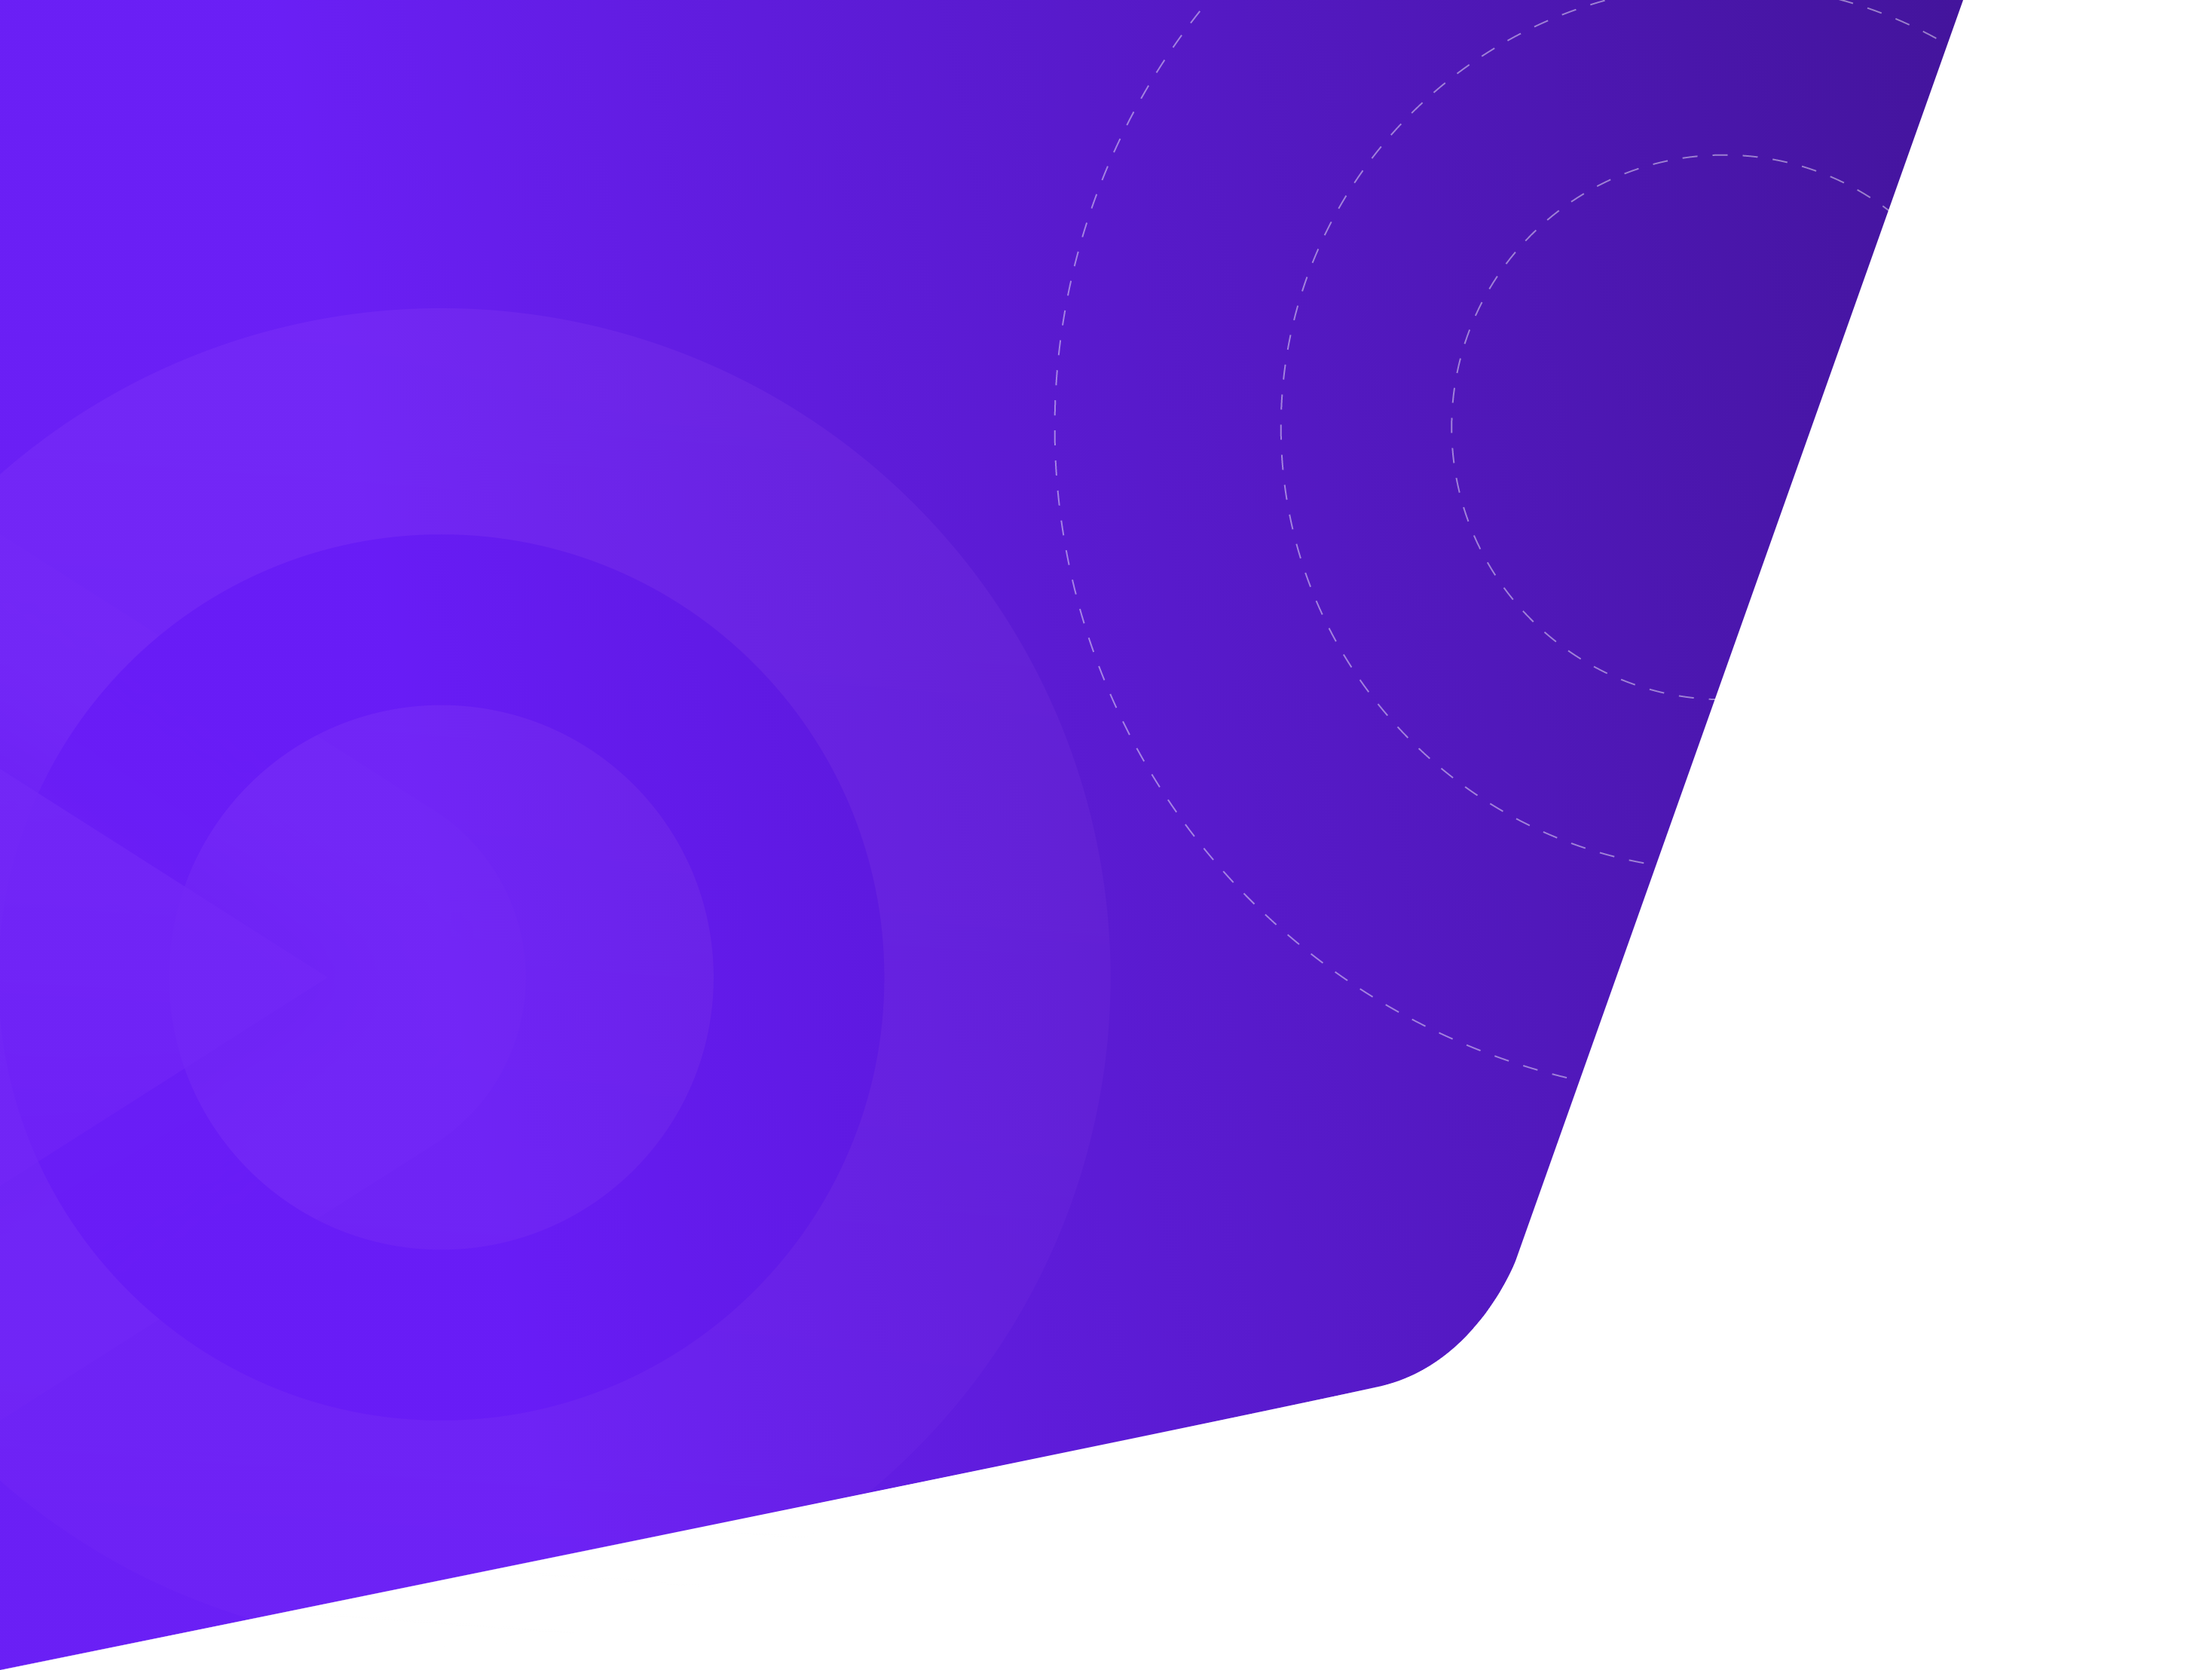
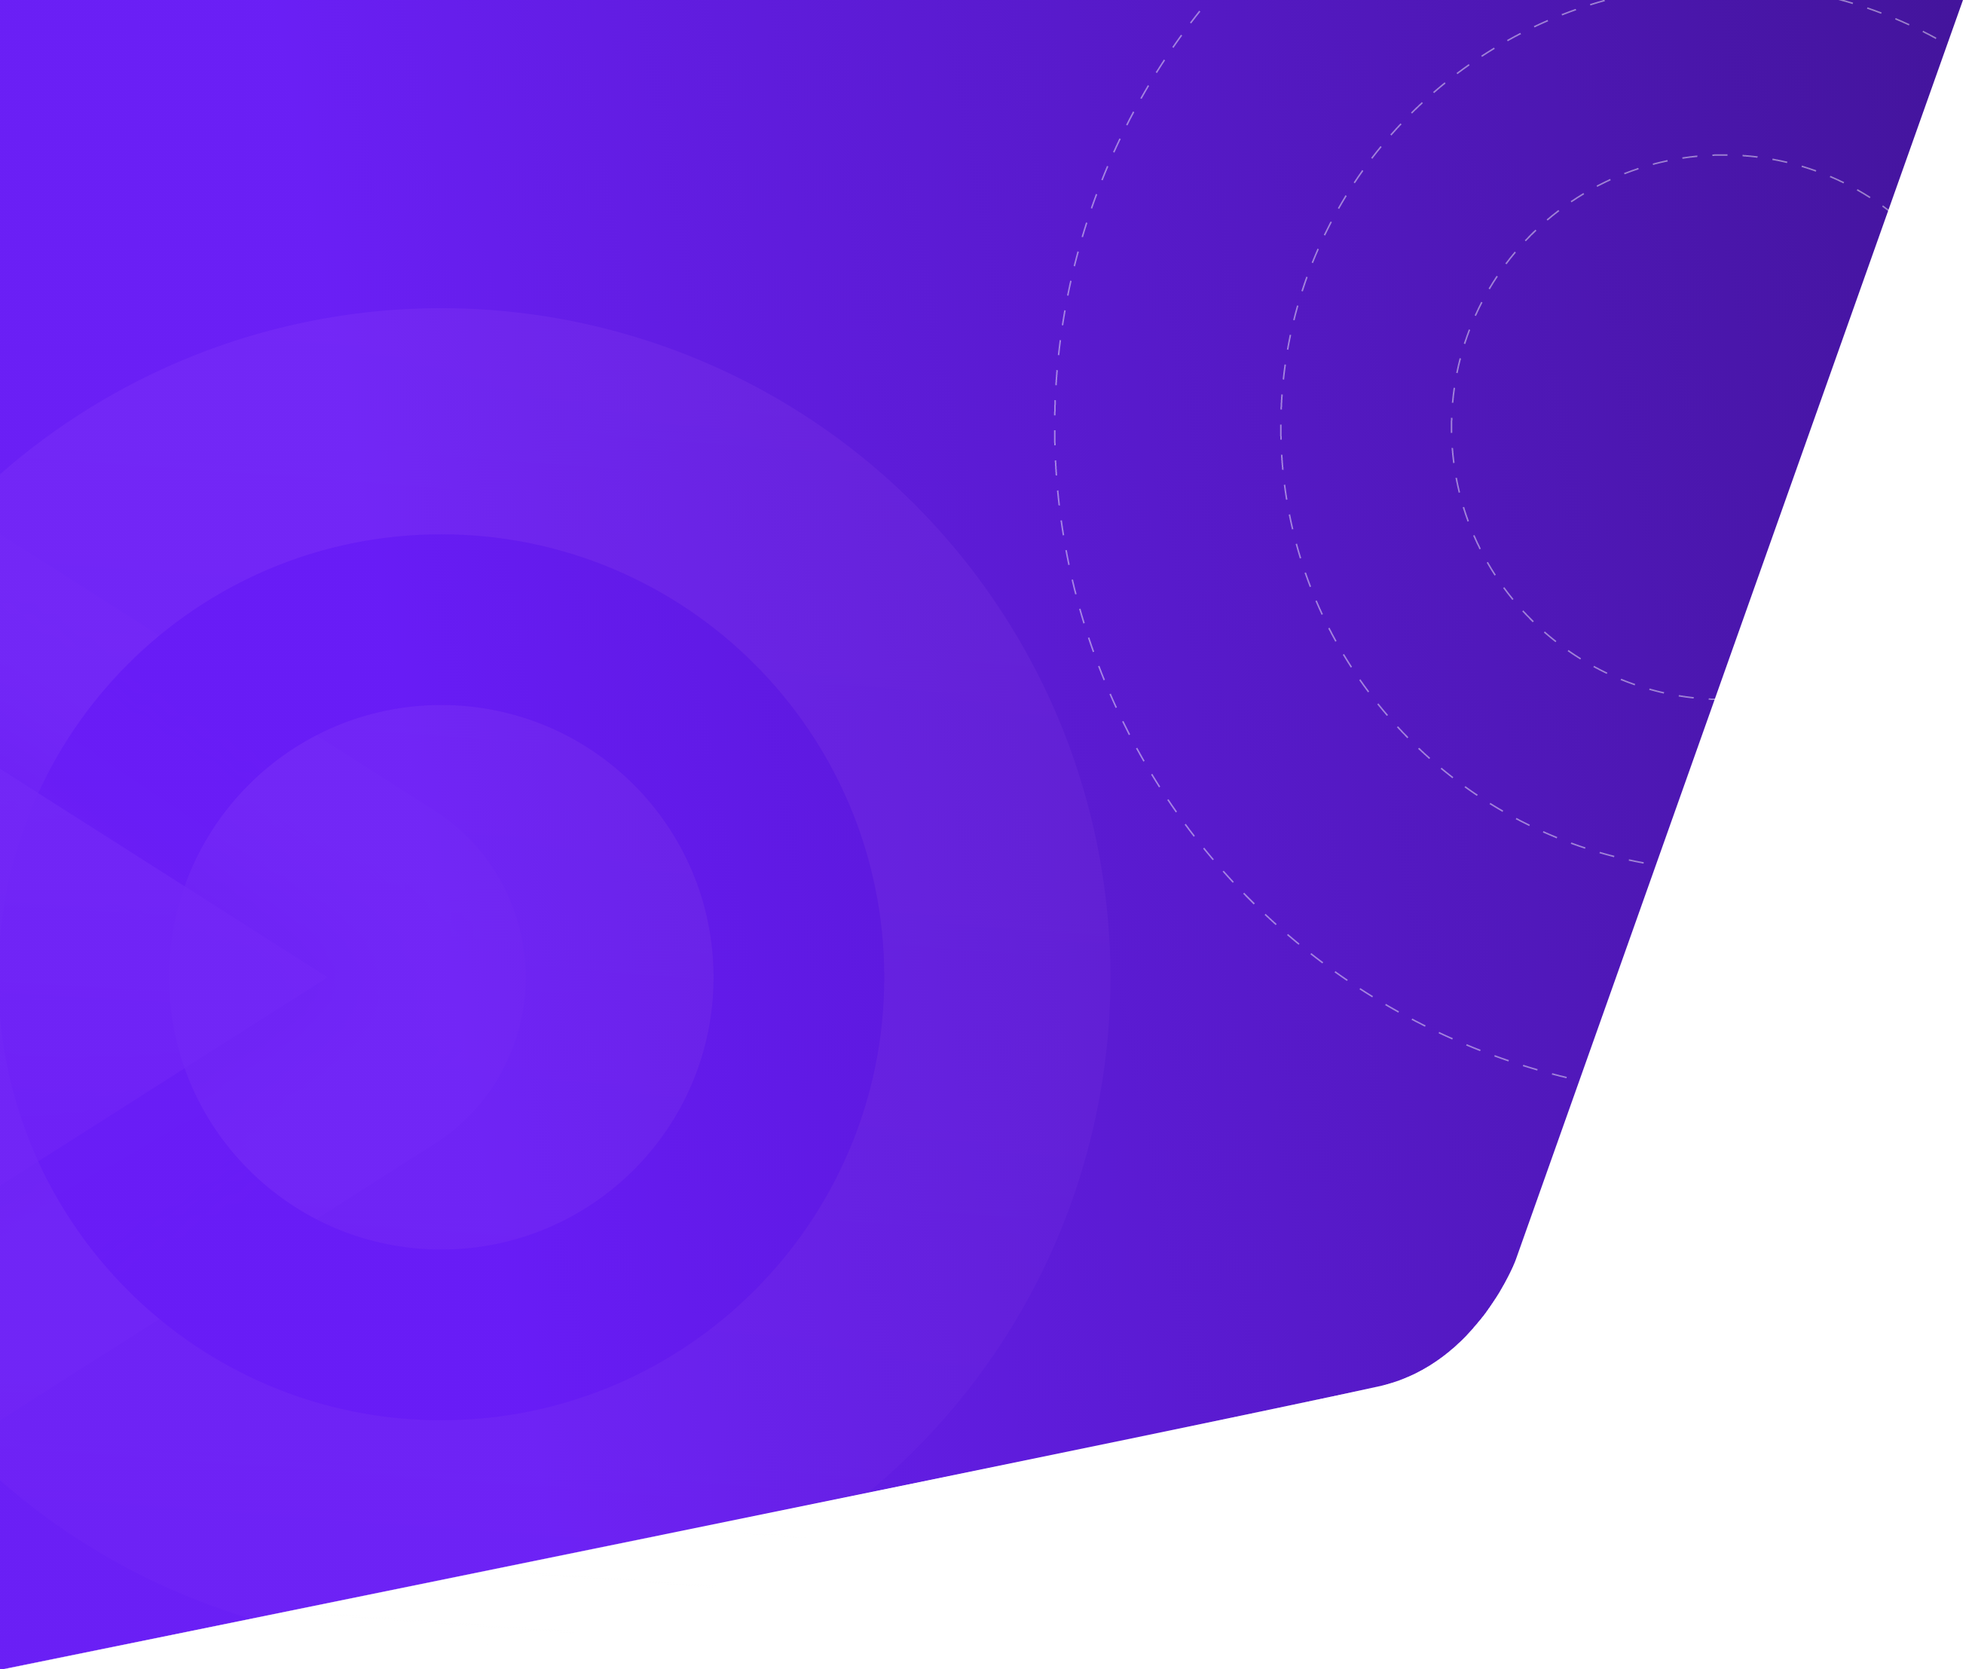
style(landing): :lipstick: change image hero

diff --git a/features/landing/Hero/Hero.tsx b/features/landing/Hero/Hero.tsx
@@ -9,7 +9,7 @@ import {
   MenuContainer,
 } from "./Hero.styles";
 
-import heroBg from '../../../assets/img/hero_bg2x.png';
+import heroBg from '../../../assets/img/hero.png';
 import heroContent from '../../../assets/img/hero-content2x.png';
 import Menu from "../../common/Menu";
 import { PageContainer } from "../../common/Theme/styles";
